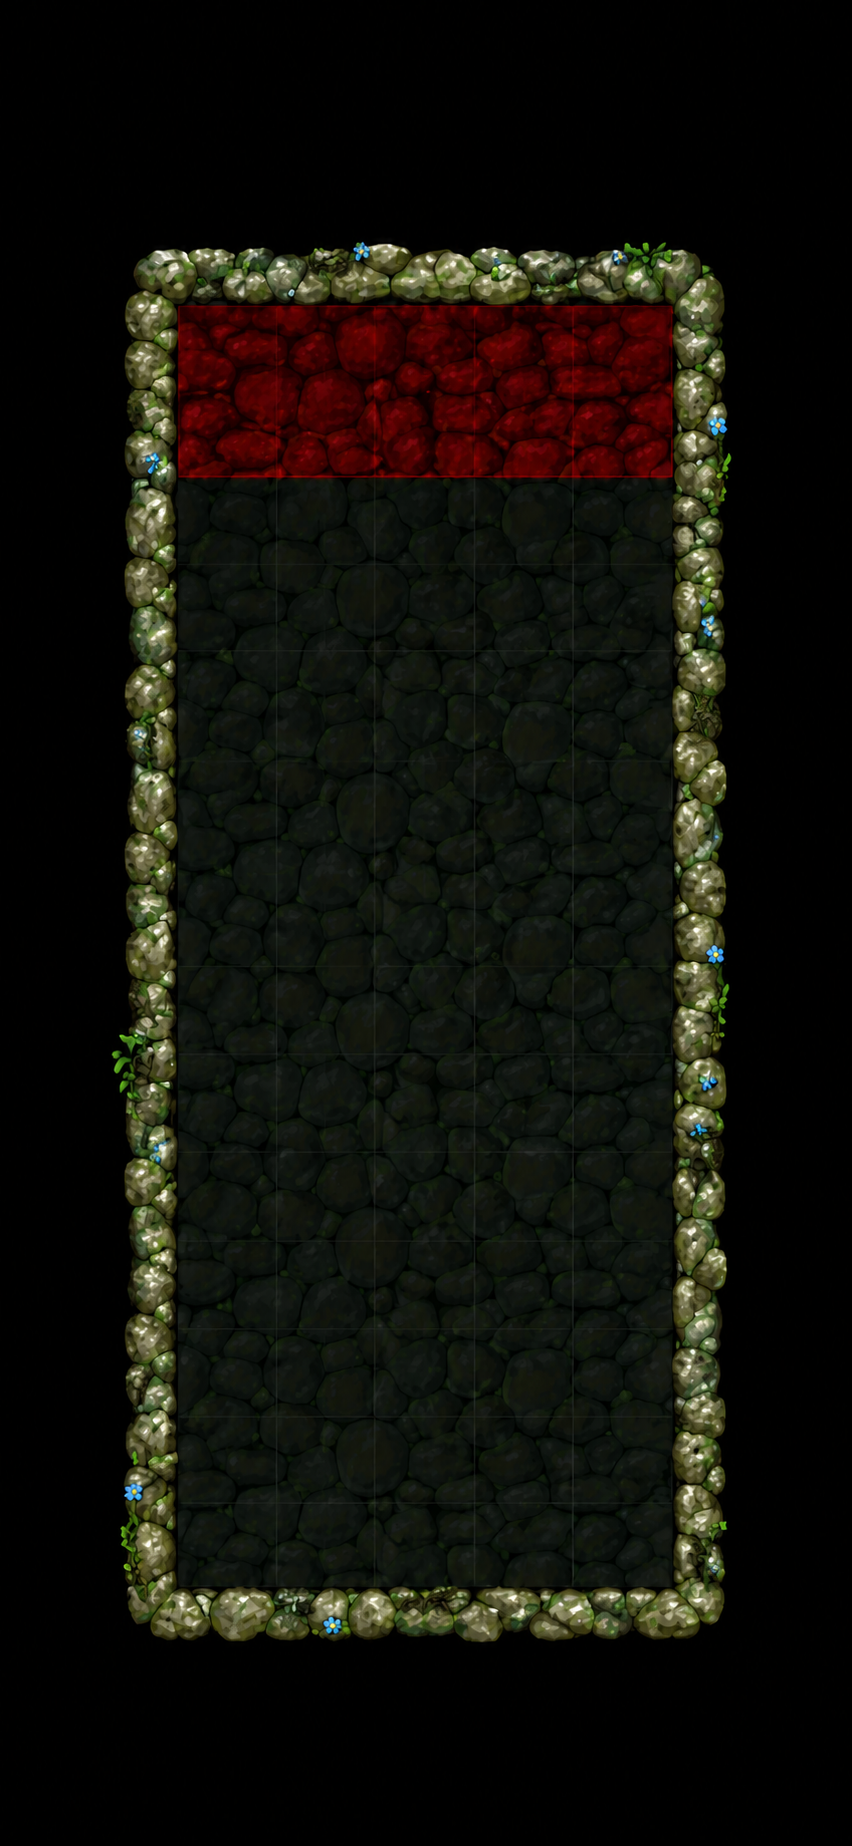
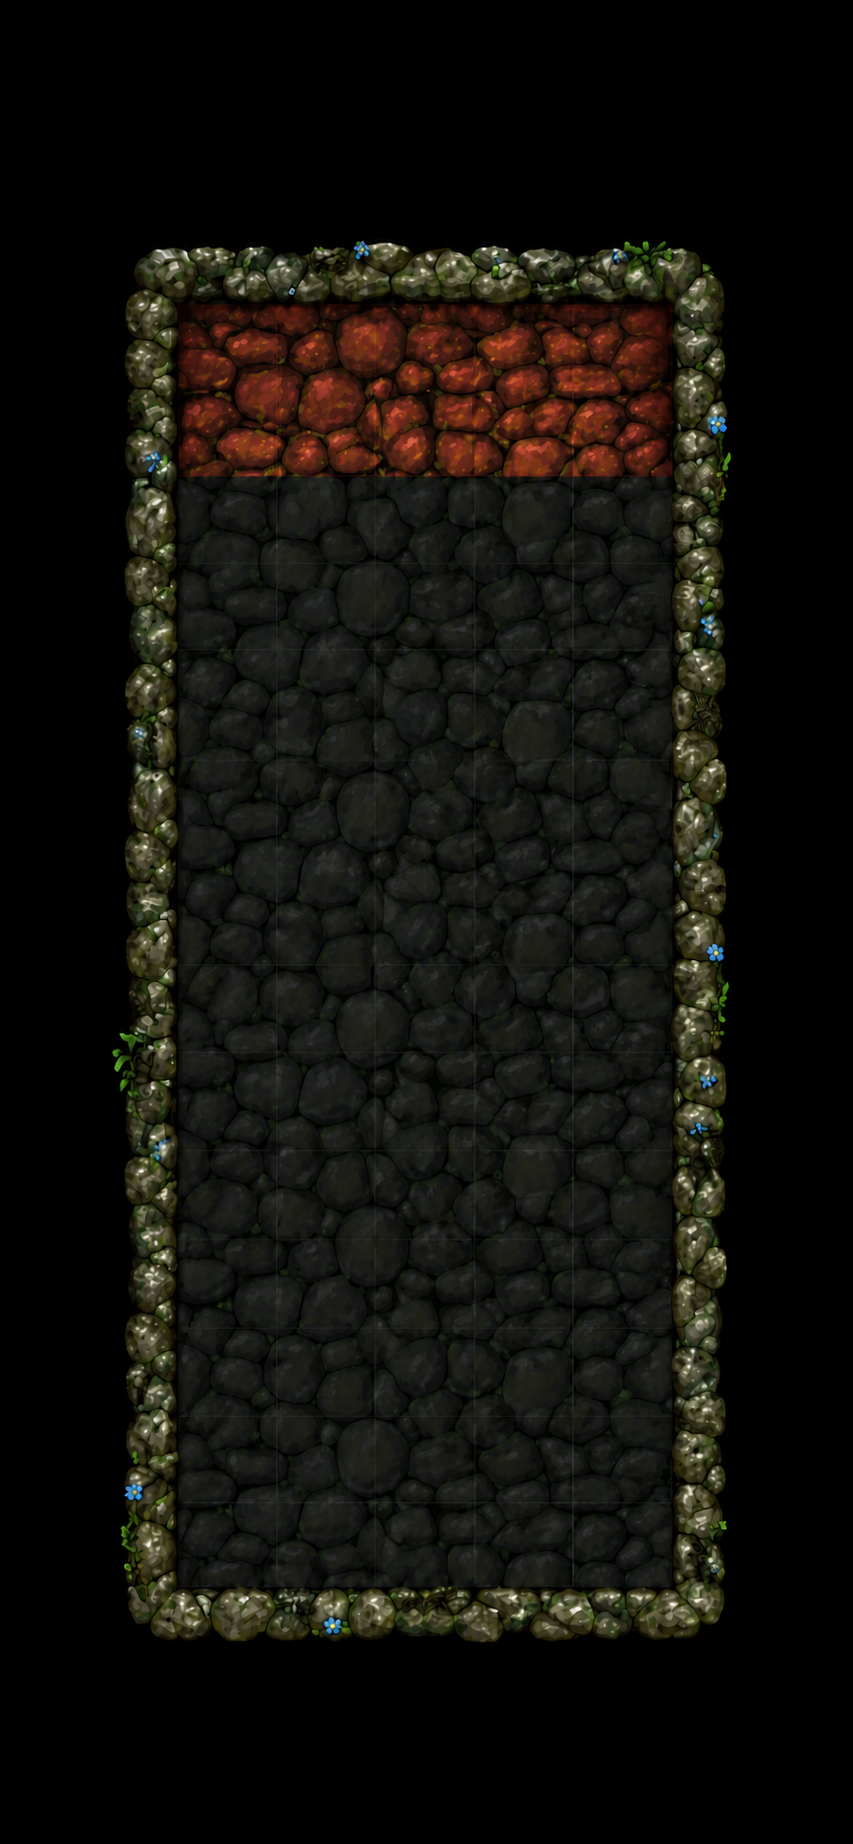
feat(UI): 危険演出を枠フラッシュから画面全体フラッシュに変更
- 赤い枠フラッシュ（`dangerGfx`・`updateDangerFrame`）を削除
- 画面全体を白くふわふわ点滅する `dangerOverlayGfx` を追加
- 危険判定を SPAWN_COL 限定から全列チェックに変更（`isDanger`）
- 危険閾値を上から 4 段→ 3 段（10 段積み上がりでトリガー）に調整
- ゲームオーバーボタン名を SCORE→RANKING・MENU→EXIT に変更
- ゲームオーバーボタン間マージンを 32px → 44px に拡大

Changed region(s): [[0.1221, 0.1236, 0.8545, 0.8964]]

diff --git a/src/render/renderer.ts b/src/render/renderer.ts
@@ -58,6 +58,8 @@ export class Renderer {
   private titleBtnBase = { x: 0, y: 0, w: 0, h: 0, scale: 1 };
   private btnPressT = -1;
   private btnPressCallback: (() => void) | null = null;
+  private dangerOverlayGfx = new Graphics();
+  private dangerPulse = 0;
   private gameoverBtnSprites = [new Sprite(), new Sprite(), new Sprite()];
   private gameoverBtnTexts: Text[] = [];
   private gameoverBtnBases = [0, 1, 2].map(() => ({ x: 0, y: 0, w: 0, h: 0, scale: 1 }));
@@ -68,7 +70,6 @@ export class Renderer {
   private introStart = 0;
   private world = new Container();
   private frameGfx = new Graphics();
-  private dangerGfx = new Graphics();
   private bridgeGfx = new Graphics();
   private puyoLayer = new Container();
   private particleLayer = new Container();
@@ -218,9 +219,9 @@ export class Renderer {
 
     this.app.stage.addChild(this.bgSprite);
     this.app.stage.addChild(this.world);
+    this.app.stage.addChild(this.dangerOverlayGfx);
     this.world.addChild(this.gameBgSprite); // 盤面の最背面（フレーム画像）
     this.world.addChild(this.frameGfx);
-    this.world.addChild(this.dangerGfx);
     this.world.addChild(this.bridgeGfx);
     this.world.addChild(this.puyoLayer);
     this.world.addChild(this.particleLayer);
@@ -258,7 +259,7 @@ export class Renderer {
     this.titleBtnSprite.anchor.set(0.5);
     this.titleBtnText = new Text({ text: "START", style: { fill: "#ffffff", fontSize: 24, fontFamily: font, fontWeight: "bold", stroke: { color: "#996600", width: 5 } } });
     this.titleBtnText.anchor.set(0.5);
-    const goLabels = ["REPLAY", "SCORE", "MENU"];
+    const goLabels = ["REPLAY", "RANKING", "EXIT"];
     const goStrokes = ["#1a5500", "#441188", "#881100"];
     for (let i = 0; i < 3; i++) {
       const t = new Text({ text: goLabels[i], style: { fill: "#ffffff", fontSize: 24, fontFamily: font, fontWeight: "bold", stroke: { color: goStrokes[i], width: 5 } } });
@@ -480,7 +481,7 @@ export class Renderer {
       this.gameoverBtnSprites[i].position.set(cx, y);
       this.gameoverBtnTexts[i].style.fontSize = Math.round(Math.min(btnH * 0.42, btnW * 0.18));
       this.gameoverBtnTexts[i].position.set(cx, y - btnH * 0.10);
-      y += btnH / 2 + 32;
+      y += btnH / 2 + 44;
     }
   }
 
@@ -887,8 +888,8 @@ export class Renderer {
     // 全消し演出
     this.updateAllClear(dtMs);
 
-    // 危険時の枠フラッシュ
-    this.updateDangerFrame(game);
+    // 危険時の画面フラッシュ
+    this.updateDangerOverlay(game, dtMs);
 
     // オーバーレイ（タイトル/ゲームオーバー）
     this.updateOverlay(game, dtMs);
@@ -1049,22 +1050,22 @@ export class Renderer {
     this.allClearText.scale.set(1 + 0.25 * (1 - fadeOut));
   }
 
-  private dangerPulse = 0;
-  private updateDangerFrame(game: Game): void {
-    this.dangerGfx.clear(); // 毎フレームclearして溜め込まない
-    const danger = game.phase !== "title" && this.isDanger(game);
-    if (!danger) return;
-    this.dangerPulse += 0.1;
-    const { cell, boardX, boardTop } = this.layout;
-    const w = cell * COLS, h = cell * VISIBLE_ROWS;
-    const a = 0.3 + 0.2 * Math.sin(this.dangerPulse);
-    this.dangerGfx.roundRect(boardX - 4, boardTop - 4, w + 8, h + 8, 12).stroke({ width: 3, color: "#ff5050", alpha: a });
+  private updateDangerOverlay(game: Game, dtMs: number): void {
+    const g = this.dangerOverlayGfx;
+    g.clear();
+    if (game.phase !== "control" && game.phase !== "resolving") { this.dangerPulse = 0; return; }
+    if (!this.isDanger(game)) { this.dangerPulse = 0; return; }
+    this.dangerPulse += dtMs * 0.006;
+    const { vw, vh } = this.layout;
+    const a = 0.08 + 0.07 * Math.sin(this.dangerPulse);
+    g.rect(0, 0, vw, vh).fill({ color: 0xffffff, alpha: a });
   }
 
   private isDanger(game: Game): boolean {
-    // 出現列の上の方（見える最上段から数段）が埋まっていたら危険
-    for (let r = HIDDEN_ROWS; r <= HIDDEN_ROWS + 3; r++) {
-      if (game.grid[r]?.[SPAWN_COL] != null) return true;
+    for (let c = 0; c < COLS; c++) {
+      for (let r = HIDDEN_ROWS; r <= HIDDEN_ROWS + 2; r++) {
+        if (game.grid[r]?.[c] != null) return true;
+      }
     }
     return false;
   }